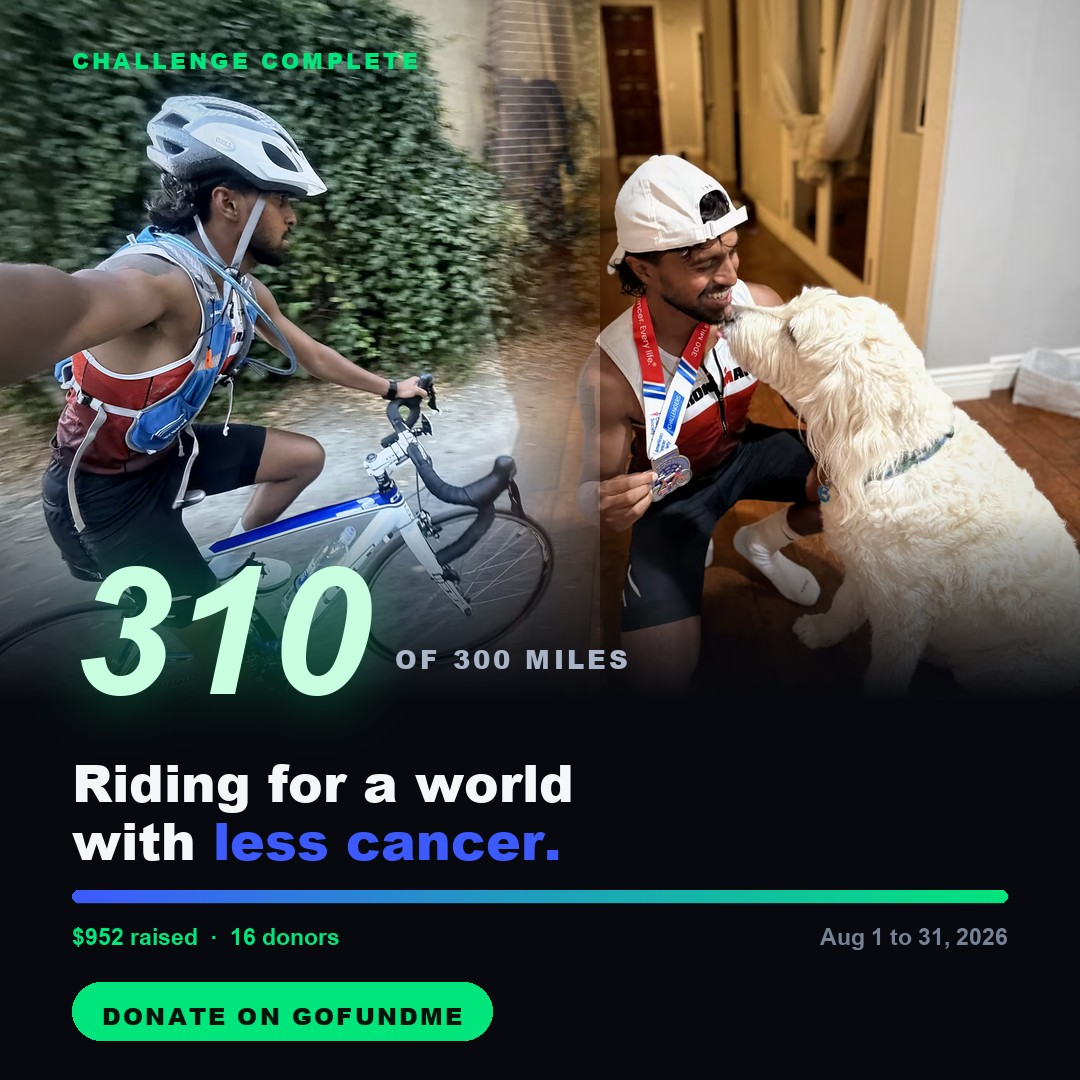
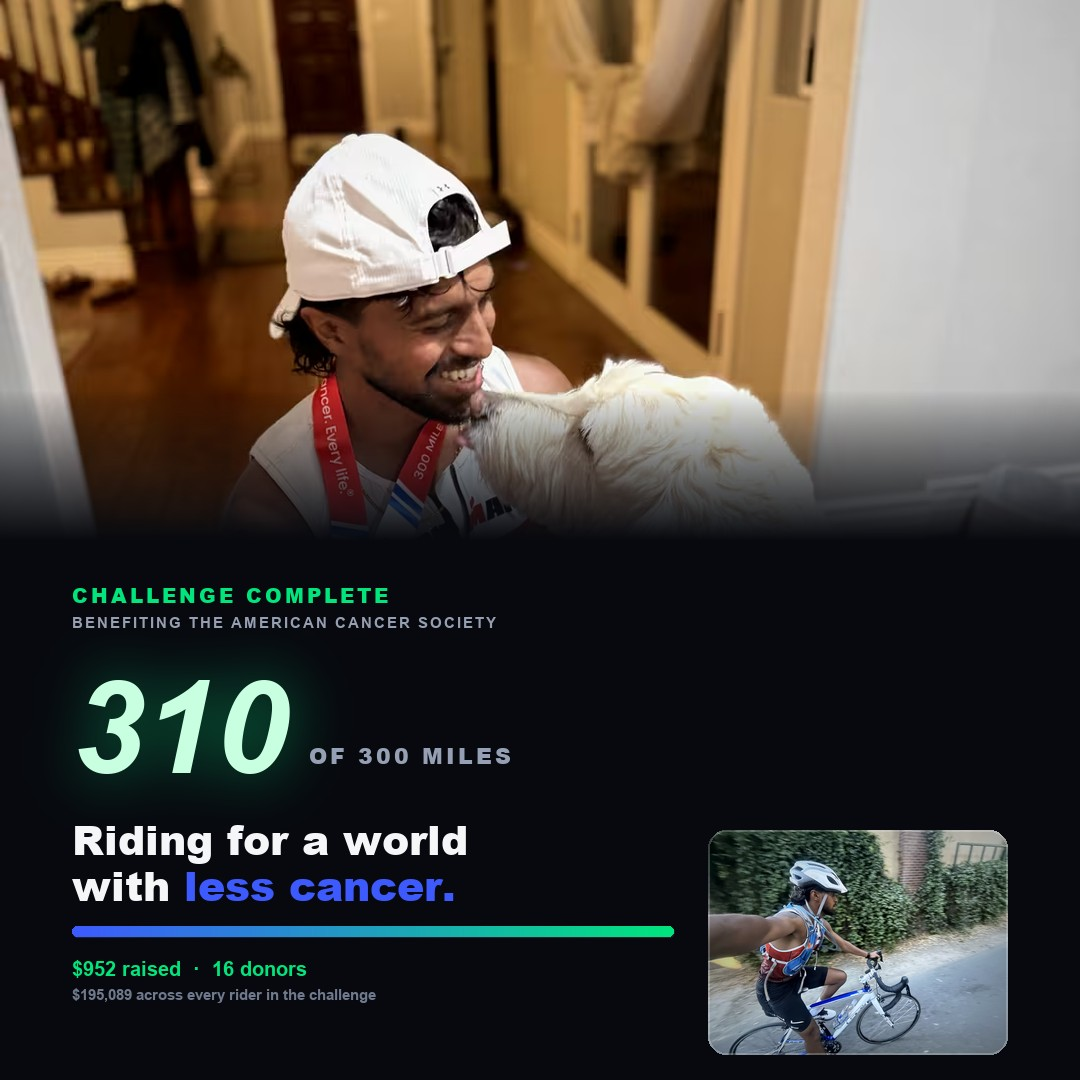
Rebuild the share cards: stop putting type on top of the photos
The cards were bad and V said so. The reason was structural rather than
cosmetic: type was laid straight over bright, busy photographs with scrims
only at the very top and bottom, so everything in between floated unreadable.
On the story, "CHALLENGE COMPLETE" sat on his helmet, the 310 was across his
face and the medal, and "OF 300 MILES" disappeared into the dog.

The layouts now separate the two jobs. A photograph gets a clean region and
nothing is written on it. Type gets solid ground underneath, with the photo
dissolving into that ground rather than meeting it at an edge.

The second photo is an inset at its own aspect ratio instead of a full width
strip. Both source photos are 3:4 and 4:3, and squeezing either into a wide
band was throwing away most of the frame and cropping heads off.

Also: the medal crop was cutting the medal out of his hand, and the progress
bar was running underneath the inset, so the bar now stops short of it.

Claude-Session: https://claude.ai/code/session_01NH75BrgSUeWBYsvkeeFkNz

diff --git a/tools/make_cards.py b/tools/make_cards.py
@@ -220,139 +220,122 @@ def build_og(ride, medal, done, goal, rng, raised, money_goal):
     return base
 
 
-def build_square(ride, medal, done, goal, rng, raised, money_goal, donors):
-    W, H, L = 1080, 1080, 72
-    panel = 700                      # imagery above, text below
-    base = Image.new("RGB", (W, H), DARK)
-    half = W // 2 + 60
-    base.paste(cover(ride, half, panel, 0.32, 0.45), (0, 0))
-    base = feather(base, cover(medal, W - half + 150, panel, 0.5, 0.5),
-                   (half - 150, 0), "x", 200)
-    base = scrim(base, (0, panel - 190, W, panel), 1.0, axis="y", invert=True)
-
+def panel(base, y0, y1, W, fade=170):
+    """Solid ground for type, with the photo above it dissolving into it."""
     d = ImageDraw.Draw(base)
-    tracked(d, (L, 44), "CHALLENGE COMPLETE" if done >= goal else "THE 300 MILE CHALLENGE",
-            font(F_BLACK, 22), GREEN, 3.2)
+    d.rectangle([0, y0, W, y1], fill=DARK)
+    grad = Image.new("L", (W, fade), 0)
+    gd = ImageDraw.Draw(grad)
+    for i in range(fade):
+        gd.line([(0, i), (W, i)], fill=int(255 * (i / fade) ** 0.85))
+    base.paste(Image.new("RGB", (W, fade), DARK), (0, y0 - fade), grad)
+    return base
 
-    fn = font(F_ITAL, 178)
+
+def inset(base, im, box, radius=18):
+    """A photo at its own aspect ratio, rounded, with a hairline edge."""
+    x, y, w, h = box
+    tile = cover(im, w, h, 0.32, 0.38)
+    mask = Image.new("L", (w, h), 0)
+    ImageDraw.Draw(mask).rounded_rectangle([0, 0, w - 1, h - 1], radius=radius, fill=255)
+    base.paste(tile, (x, y), mask)
+    ring = Image.new("L", (w, h), 0)
+    ImageDraw.Draw(ring).rounded_rectangle([0, 0, w - 1, h - 1], radius=radius,
+                                           outline=255, width=2)
+    base.paste(Image.new("RGB", (w, h), (255, 255, 255)), (x, y),
+               ring.point(lambda v: int(v * 0.22)))
+    return base
+
+
+def typeblock(base, x, y, W, done, goal, raised, donors, allriders, scale=1.0,
+              cta=True, headline=True, right=None):
+    """Everything below the photo. Nothing here sits on an image."""
+    S = lambda v: max(1, round(v * scale))
+    d = ImageDraw.Draw(base)
+    tracked(d, (x, y), "CHALLENGE COMPLETE", font(F_BLACK, S(23)), GREEN, S(3.4))
+    tracked(d, (x, y + S(40)), "BENEFITING THE AMERICAN CANCER SOCIETY",
+            font(F_BOLD, S(18)), (150, 159, 178), S(2.6))
+
+    fn = font(F_ITAL, S(150))
     num = str(int(round(done)))
-    base = glow_number(base, (L, panel - 168), num, fn)
+    ny = y + S(88)
+    base = glow_number(base, (x, ny), num, fn)
     d = ImageDraw.Draw(base)
-    tracked(d, (L + d.textlength(num, font=fn) + 26, panel - 60), "OF %d MILES" % goal,
-            font(F_BLACK, 26), (170, 180, 200), 3.2)
+    tracked(d, (x + d.textlength(num, font=fn) + S(24), ny + S(96)),
+            "OF %d MILES" % goal, font(F_BLACK, S(26)), (150, 160, 180), S(3.2))
+    yy = ny + S(178)
 
-    fh = font(F_BLACK, 52)
-    d.text((L, panel + 44), "Riding for a world", font=fh, fill=WHITE)
-    d.text((L, panel + 102), "with ", font=fh, fill=WHITE)
-    d.text((L + d.textlength("with ", font=fh), panel + 102), "less cancer.", font=fh, fill=BLUE)
+    if headline:
+        fh = font(F_BLACK, S(48))
+        d.text((x, yy), "Riding for a world", font=fh, fill=WHITE)
+        d.text((x, yy + S(54)), "with ", font=fh, fill=WHITE)
+        d.text((x + d.textlength("with ", font=fh), yy + S(54)), "less cancer.",
+               font=fh, fill=BLUE)
+        yy += S(136)
 
-    base = bar(base, L, W - L, panel + 190, 13, min(1.0, done / goal))
+    base = bar(base, x, (right if right is not None else W - x), yy, S(13),
+               min(1.0, done / goal))
+    yy += S(36)
     d = ImageDraw.Draw(base)
-    fs = font(F_BOLD, 23)
-    stats = "$%s raised  ·  %d donors" % (format(raised, ","), donors)
-    d.text((L, panel + 224), stats, font=fs, fill=GREEN)
-    if rng:
-        d.text((W - L - d.textlength(rng, font=fs), panel + 224), rng, font=fs, fill=(120, 130, 150))
+    d.text((x, yy), "$%s raised  \u00b7  %d donors" % (format(raised, ","), donors),
+           font=font(F_BOLD, S(23)), fill=GREEN)
+    if allriders:
+        d.text((x, yy + S(34)),
+               "$%s across every rider in the challenge" % format(allriders, ","),
+               font=font(F_BOLD, S(18)), fill=(112, 122, 142))
+    yy += S(78)
 
-    fc = font(F_BLACK, 24)
-    lab = "DONATE ON GOFUNDME"
-    cw = tracked_w(d, lab, fc, 2.2)
-    d.rounded_rectangle([L, panel + 282, L + cw + 60, panel + 340], radius=29, fill=GREEN)
-    tracked(d, (L + 30, panel + 298), lab, fc, (6, 18, 12), 2.2)
+    if cta:
+        fc = font(F_BLACK, S(25))
+        lab = "DONATE ON GOFUNDME"
+        cw = tracked_w(d, lab, fc, S(2.3))
+        d.rounded_rectangle([x, yy, x + cw + S(62), yy + S(62)], radius=S(31), fill=GREEN)
+        tracked(d, (x + S(31), yy + S(18)), lab, fc, (6, 18, 12), S(2.3))
+    return base
+
+
+def build_square(ride, medal, done, goal, rng, raised, money_goal, donors, allriders=0):
+    W, H, L = 1080, 1080, 72
+    PH = 540
+    base = Image.new("RGB", (W, H), DARK)
+    base.paste(cover(medal, W, PH, 0.5, 0.28), (0, 0))
+    base = panel(base, PH, H, W, fade=150)
+    base = typeblock(base, L, PH + 40, W, done, goal, raised, donors, allriders,
+                     scale=0.86, cta=False, right=W - L - 334)
+    base = inset(base, ride, (W - L - 300, H - 250, 300, 225))
+    return base
+
+
+def build_post(ride, medal, done, goal, raised, donors, allriders):
+    """Odin big, the bike at the foot at its own shape, and an empty band under
+    it. A feed post cannot carry a link, so that space is for a sticker."""
+    W, H, L = 1080, 1350, 76
+    PH, BLANK = 660, 1160
+    IW, IH = 320, 240
+    IX = W - L - IW
+    base = Image.new("RGB", (W, H), DARK)
+    # 0.30 keeps the medal in his hand inside the frame; 0.24 cropped it off.
+    base.paste(cover(medal, W, PH, 0.5, 0.30), (0, 0))
+    base = panel(base, PH, BLANK, W, fade=170)
+    # Starts high enough that the last line clears the blank band; it was being
+    # sliced in half by it.
+    base = typeblock(base, L, PH + 44, W, done, goal, raised, donors, allriders,
+                     scale=0.86, cta=False, right=IX - 34)
+    base = inset(base, ride, (IX, BLANK - 300, IW, IH))
+    d = ImageDraw.Draw(base)
+    d.rectangle([0, BLANK, W, H], fill=DARK)
     return base
 
 
 def build_story(ride, medal, done, goal, rng, raised, money_goal, donors, allriders=0):
     W, H, L = 1080, 1920, 84
+    PH = 1000
     base = Image.new("RGB", (W, H), DARK)
-    top = 760
-    base.paste(cover(ride, W, top, 0.32, 0.45), (0, 0))
-    # The medal photo is 3:4, so it gets the taller half and keeps its shape.
-    base = feather(base, cover(medal, W, 1030, 0.5, 0.42), (0, top - 90), "y", 210)
-    base = scrim(base, (0, H - 700, W, H), 1.0, axis="y", invert=True)
-    base = scrim(base, (0, 0, W, 300), 0.9, axis="y")
-
-    d = ImageDraw.Draw(base)
-    tracked(d, (L, 96), "CHALLENGE COMPLETE" if done >= goal else "THE 300 MILE CHALLENGE",
-            font(F_BLACK, 26), GREEN, 3.6)
-    tracked(d, (L, 140), "BENEFITING THE AMERICAN CANCER SOCIETY",
-            font(F_BOLD, 20), (190, 198, 214), 2.8)
-
-    fn = font(F_ITAL, 250)
-    num = str(int(round(done)))
-    base = glow_number(base, (L, H - 690), num, fn)
-    d = ImageDraw.Draw(base)
-    tracked(d, (L + d.textlength(num, font=fn) + 30, H - 560), "OF %d MILES" % goal,
-            font(F_BLACK, 32), (175, 185, 205), 3.6)
-
-    fh = font(F_BLACK, 68)
-    d.text((L, H - 452), "Riding for a world", font=fh, fill=WHITE)
-    d.text((L, H - 376), "with ", font=fh, fill=WHITE)
-    d.text((L + d.textlength("with ", font=fh), H - 376), "less cancer.", font=fh, fill=BLUE)
-
-    base = bar(base, L, W - L, H - 268, 16, min(1.0, done / goal))
-    d = ImageDraw.Draw(base)
-    fs = font(F_BOLD, 28)
-    d.text((L, H - 236), "$%s raised  ·  %d donors" % (format(raised, ","), donors),
-           font=fs, fill=GREEN)
-    if allriders:
-        d.text((L, H - 198),
-               "$%s across every rider in the challenge" % format(allriders, ","),
-               font=font(F_BOLD, 19), fill=(122, 132, 152))
-
-    fc = font(F_BLACK, 30)
-    lab = "DONATE ON GOFUNDME"
-    cw = tracked_w(d, lab, fc, 2.6)
-    d.rounded_rectangle([L, H - 168, L + cw + 72, H - 92], radius=38, fill=GREEN)
-    tracked(d, (L + 36, H - 147), lab, fc, (6, 18, 12), 2.6)
-    return base
-
-
-def build_post(ride, medal, done, goal, raised, donors, allriders):
-    """Odin at the top, the bike at the foot, and a deliberately empty band
-    below that. Instagram feed posts cannot carry a link, so the space is left
-    for a sticker rather than filled with a button that would not work."""
-    W, H, L = 1080, 1350, 76
-    # Photo, then a band that carries all the type, then the bike, then nothing.
-    # The number used to sit over the medal shot and landed square on his face.
-    PHOTO, PIC, BLANK = 520, 884, 1124
-    base = Image.new("RGB", (W, H), DARK)
-
-    base.paste(cover(medal, W, PHOTO, 0.5, 0.28), (0, 0))
-    base = scrim(base, (0, PHOTO - 200, W, PHOTO), 1.0, axis="y", invert=True)
-    base = scrim(base, (0, 0, W, 200), 0.85, axis="y")
-
-    d = ImageDraw.Draw(base)
-    tracked(d, (L, 58), "CHALLENGE COMPLETE", font(F_BLACK, 23), GREEN, 3.4)
-    tracked(d, (L, 100), "BENEFITING THE AMERICAN CANCER SOCIETY",
-            font(F_BOLD, 18), (198, 206, 222), 2.6)
-
-    fn = font(F_ITAL, 132)
-    num = str(int(round(done)))
-    base = glow_number(base, (L, PHOTO + 14), num, fn)
-    d = ImageDraw.Draw(base)
-    tracked(d, (L + d.textlength(num, font=fn) + 24, PHOTO + 96), "OF %d MILES" % goal,
-            font(F_BLACK, 25), (170, 180, 200), 3.2)
-
-    fh = font(F_BLACK, 43)
-    d.text((L, PHOTO + 176), "Riding for a world", font=fh, fill=WHITE)
-    d.text((L, PHOTO + 224), "with ", font=fh, fill=WHITE)
-    d.text((L + d.textlength("with ", font=fh), PHOTO + 224), "less cancer.", font=fh, fill=BLUE)
-
-    d.text((L, PHOTO + 292), "$%s raised here  \u00b7  %d donors"
-           % (format(raised, ","), donors), font=font(F_BOLD, 22), fill=GREEN)
-    if allriders:
-        d.text((L, PHOTO + 326),
-               "$%s raised across every rider in the challenge" % format(allriders, ","),
-               font=font(F_BOLD, 17), fill=(116, 126, 146))
-
-    base.paste(cover(ride, W, BLANK - PIC, 0.32, 0.34), (0, PIC))
-
-    # Left empty on purpose: a feed post cannot carry a link, so this is room
-    # for a sticker rather than a button that would not do anything.
-    d = ImageDraw.Draw(base)
-    d.rectangle([0, BLANK, W, H], fill=DARK)
-    base = scrim(base, (0, BLANK - 80, W, BLANK), 1.0, axis="y", invert=True)
+    base.paste(cover(medal, W, PH, 0.5, 0.26), (0, 0))
+    base = panel(base, PH, H, W, fade=210)
+    base = typeblock(base, L, PH + 70, W, done, goal, raised, donors, allriders,
+                     scale=1.0, cta=True)
+    base = inset(base, ride, (W - L - 300, PH - 250, 300, 225))
     return base
 
 
@@ -379,7 +362,7 @@ def main():
          build_post(ride, medal, done, goal, raised, donors, allriders), 90),
         ("og.jpg", build_og(ride, medal, done, goal, rng, raised, money_goal), 88),
         ("share-square.jpg",
-         build_square(ride, medal, done, goal, rng, raised, money_goal, donors), 90),
+         build_square(ride, medal, done, goal, rng, raised, money_goal, donors, allriders), 90),
         ("share-story.jpg",
          build_story(ride, medal, done, goal, rng, raised, money_goal, donors, allriders), 90),
     ]
